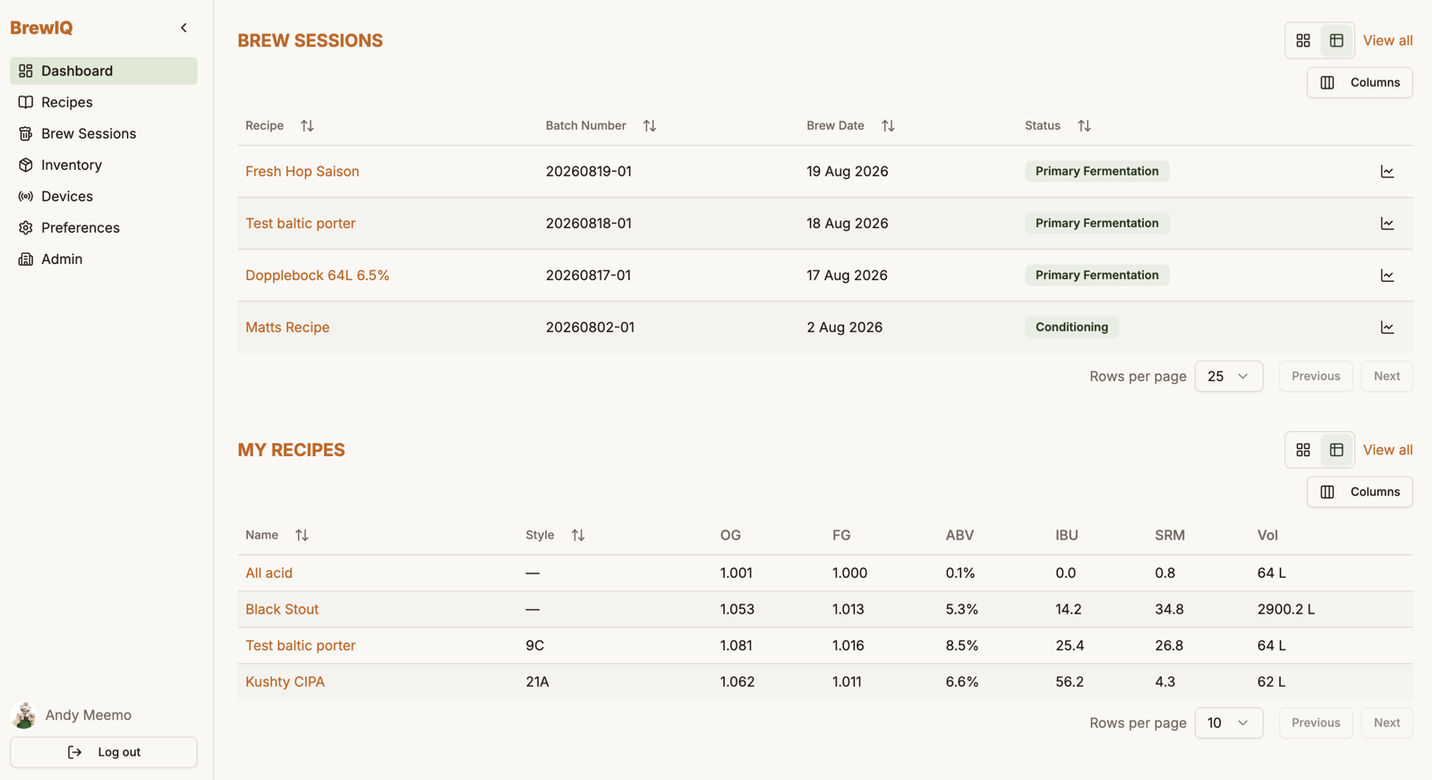
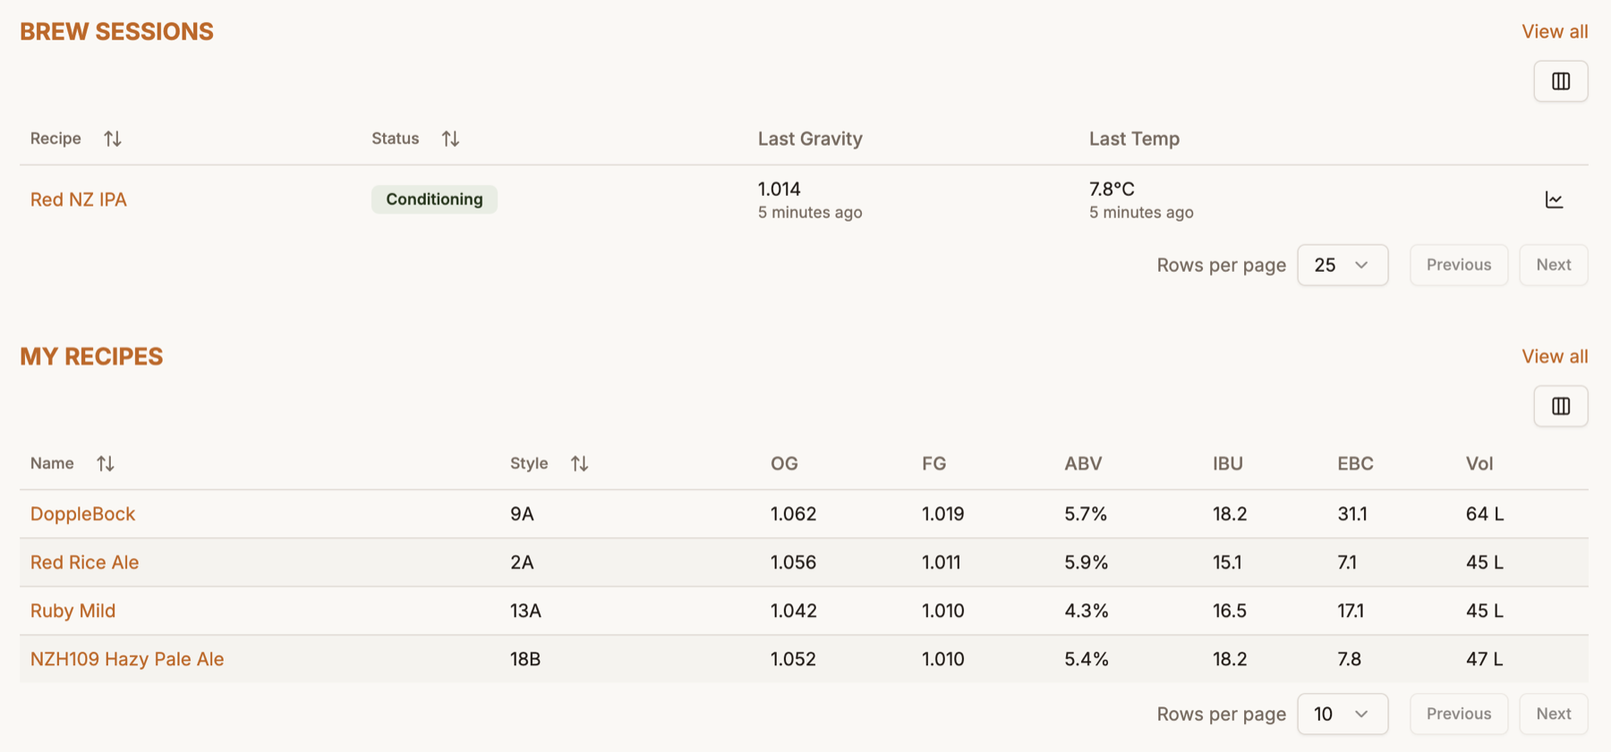
Document recipe tools, fermentation steps, scaling, profiles, alerts and more
Recipes: builder header, Clone/Scale, price override/refresh/match,
sorting, Extracted AA%/IBU, fermentation steps and ramps, profile
screenshots, share-with-fermentation option.
Dashboard: Last Gravity/Last Temp columns, step-reached icons.
Admin: combined Roles table. Preferences: gravity and temperature alerts
and accepted variance. Brew Sessions: target temp rules, step icons.
Devices: how long readings are kept.

diff --git a/docs-src/recipes.md b/docs-src/recipes.md
@@ -27,38 +27,87 @@ Filters (folder, year, label, tag) show as removable chips above the list; use *
 
 **Import BeerXML** (top of the list page) accepts up to 5 `.xml` files at once, shows you a preview of what it found per file, and lets you deselect anything you don't want before committing. Rows with errors are shown dimmed and excluded automatically.
 
+Ingredients that don't match anything in your Inventory come in unlinked. You can match each one from the recipe builder - see [Prices, refreshing and matching ingredients](#prices-refreshing-and-matching-ingredients).
+
 Each recipe row also has an **Export** (download) icon that downloads it as a standalone BeerXML file - handy for backups or moving a recipe to another tool.
 
 ## Building a recipe
 
 Click **New Recipe**, or click a recipe name to reopen the builder on an existing one.
 
+### The builder header
+
+![The recipe builder header with its action buttons, the stat strip and the recipe details](images/recipe-details-stat-strip.png)
+
+The top row holds the recipe's name and its actions. Above it, **View Linked Brew Sessions** takes you to the sessions brewed from this recipe.
+
+- **Clone** - makes an independent copy to work on. BrewIQ asks you to name it first.
+- **Scale** - resizes the whole recipe to a new batch volume or ABV (see [Scaling a recipe](#scaling-a-recipe)).
+- **Autosave** - the on/off switch described under [Saving](#saving).
+- **Export BeerXML** - downloads the recipe as a BeerXML file.
+- **Print**, **Share** and **Brew it!** - open the print preview, the share dialog, and the new brew session screen. They show as icons only if you've turned off **Show button labels** in [Account & Preferences](account-preferences.md).
+- **Save Recipe** - saves your changes now.
+
 ### Recipe Details
 
-At the top: **BJCP Style** (searchable dropdown of the full BJCP 2021 style list), **Method** (All Grain / Extract / BIAB / Partial Mash), **Boil Time**, **Efficiency %** (your brewhouse efficiency - feeds the OG calculation directly), and **Batch Size** / **Pre-Boil Volume** / **Post-Boil Volume**.
+At the top: **BJCP Style** (searchable dropdown of the full BJCP 2021 style list), **Method** (All Grain / Extract / BIAB / Partial Mash), **Boil Time**, **Efficiency %** (your brewhouse efficiency - feeds the OG calculation directly), and **Batch Size** / **Pre-Boil Volume** / **Post-Boil Volume**. A saved recipe also shows when it was **Created** and by whom.
 
 Turn on **Auto-calc Pre/Post-Boil** and BrewIQ will keep those two volumes in sync automatically as you change batch size, boil time, or the hop schedule - turn it off if you'd rather set them manually.
 
 ### The stat strip
 
-![The recipe builder header showing the stat strip with a BJCP style's target ranges](images/recipe-details-stat-strip.png)
-
-Right under the details, a live strip shows **OG, FG, ABV, IBU, SRM, Mash pH, and Cost**, recalculating as you edit. Once you've picked a BJCP style, each cell also shows that style's target range underneath and highlights green when you're inside it - a quick way to see if your recipe is on-style.
+Right under the header buttons, a live strip shows **OG, FG, ABV, IBU, colour, Mash pH, and Cost**, recalculating as you edit. Gravity and colour follow the units you chose in [Account & Preferences](account-preferences.md) (for example EBC or SRM). Once you've picked a BJCP style, each cell also shows that style's target range underneath and highlights green when you're inside it - a quick way to see if your recipe is on-style.
 
 Treat **Mash pH** and **Cost** as directional estimates rather than lab-precision numbers - mash pH is a rule-of-thumb calculation, not a substitute for an actual meter reading.
 
-### Grain Bill, Hop Schedule, Adjuncts, Yeast & Fermentation, Mash & Water, Notes
+### Grain Bill, Hop Schedule, Adjuncts, Yeast, Mash & Water, Fermentation, Notes
 
 These are tabs (or view them all stacked at once under the **All** tab):
 
 - **Grain Bill** - click **Add grain** to pull from your [Inventory](inventory.md) (there are separate Grains and Fermentables catalogs, both searchable/tag-filterable from the same dialog). Set the amount per grain; percentage of the grist, colour, and PPG are calculated or pulled in automatically. A running **Total grain bill** shows at the bottom.
-- **Hop Schedule** - click **Add hop**, then set **Usage** (Boil / First Wort / Whirlpool / Mash / Dry Hop), **Form** (Pellet / Leaf / Fresh), **Time**, and **Amount** per addition. Picking Boil or First Wort auto-fills the time to your boil length. The **Alpha %** is editable, so you can correct it to match the actual hops you bought (correcting it also updates the recipe's open snapshotted [brew sessions](brew-sessions.md#recipe-view-tab)). A summary at the bottom breaks total hops down by stage (Mash / Boil / Whirlpool / Fermenter) with a density figure so you can sanity-check dry-hop rates.
+
+    ![The Grain Bill tab with price, refresh, match and remove icons on each row](images/recipe-builder-grain-bill.png)
+
+- **Hop Schedule** - click **Add hop**, then set **Usage** (Boil / First Wort / Whirlpool / Mash / Dry Hop), **Form** (Pellet / Leaf / Fresh), **Time**, and **Amount** per addition. Picking Boil or First Wort auto-fills the time to your boil length. The **Alpha %** is editable, so you can correct it to match the actual hops you bought (correcting it also updates the recipe's open snapshotted [brew sessions](brew-sessions.md#recipe-view-tab)). Two read-only columns show the maths for each addition: **Extracted AA%** is how much of that hop's alpha acid ends up in the wort (it depends on time, temperature and gravity, so it doesn't change when you change the amount), and **IBU** is that addition's contribution to the recipe's bitterness (which does scale with amount). Dry hops show 0. A summary at the bottom breaks total hops down by stage (Mash / Boil / Whirlpool / Fermenter) with a density figure so you can sanity-check dry-hop rates.
+
+    ![The Hop Schedule tab with Extracted AA% and IBU columns and the sort, refresh and price icons](images/recipe-builder-hops.png)
+
 - **Adjuncts** - same add/search flow as grains and hops, with a Usage field (Mash, Sparge, Water correction, Boil, Whirlpool, Fermenter, Other).
-- **Yeast & Fermentation** - pick a **Strain** from inventory and BrewIQ fills in supplier, flocculation, temperature range, expected attenuation, and fermentation temp from the strain's data (all still editable). Set **Quantity** and whether a **Starter** was used. Expected attenuation is what drives your FG estimate. Below that, the **fermentation steps** table is where you set the batch's schedule - see [Fermentation profile templates](#fermentation-profile-templates).
+- **Yeast** - pick a **Strain** from inventory and BrewIQ fills in supplier, flocculation, temperature range, expected attenuation, and fermentation temp from the strain's data (all still editable). Set **Quantity** and whether a **Starter** was used. Expected attenuation is what drives your FG estimate.
 - **Mash & Water** - set your **Mash Thickness** and BrewIQ suggests a **Recommended Mash In** volume (and a **Recommended Sparge** volume, accounting for grain absorption); click **Add to schedule** on either to drop a pre-filled step into the **Mash Steps** table below, which you can then edit freely or build entirely by hand with **Add step**.
+- **Fermentation** - plan the batch's temperature schedule, step by step. See [Fermentation steps](#fermentation-steps).
 - **Notes** - a plain text field for anything else (process notes, tasting notes, etc.).
 
 Any ingredient you add here comes straight from your ingredient catalog - if something's missing, add it in [Inventory](inventory.md) first.
+
+### Prices, refreshing and matching ingredients
+
+Each grain, hop and adjunct row has a few small tools on the right:
+
+- **$ (cost override)** - set a price for this recipe only. The $ turns orange once a row is overridden. If the same ingredient appears on several rows, tick **Apply to all** to price them together. **Clear** removes the override.
+- **Refresh from inventory** (circular arrow) - re-pulls the ingredient's details from [Inventory](inventory.md): colour and PPG for grains, alpha acid for hops, type, supplier, and price. A price you've overridden is left alone. The refresh arrow in the section's top-right corner (**Refresh all from inventory**) does every row at once. Prices in a recipe stay as they were until you refresh, so a change in Inventory never alters a recipe's cost by surprise.
+- **Match to inventory** - an ingredient that came from a BeerXML import and doesn't match anything in your Inventory shows a **+** icon. Click it to open a dialog with two tabs: **Match existing** (search your catalogue and pick the right item) or **Add as new** (create an Inventory item, pre-filled from the row). Matching takes the catalogue's name, type, colour or alpha acid, supplier and price, but keeps the amount, usage and timing from your import. For an adjunct, the price is only taken if it is priced in the same unit as the row. A matched row shows a **link** icon, which lets you **Re-match** it to a different item.
+- **Remove** (trash) - deletes the row.
+
+The **sort** icon at the top of the Grain Bill and Hop Schedule re-orders the rows: the grain bill largest first (**Sort by % of grain bill**), and hops in the order they go into the process (**Sort by schedule**): Mash, First Wort, Boil (longest time first), Whirlpool, then Dry Hop. Both lists are also sorted automatically every time you save, so a saved recipe is always in brewing order.
+
+### Fermentation steps
+
+![The Fermentation tab showing three steps with type, duration, temperature, ramp and temp controller mode](images/recipe-builder-fermentation-steps.png)
+
+The **Fermentation** tab is where you plan the batch's temperature schedule before you brew. Click **Add step** and fill in each row:
+
+- **Step** - a name, such as Ferment, D-Rest or Cold crash.
+- **Type** - **Fermentation** or **Conditioning**. A Conditioning step plans the time the beer spends conditioning.
+- **Duration** - days and hours.
+- **Start Temp** (°C).
+- **Ramp** and **Finish Temp** - switch **Ramp** on and enter a finish temperature to move gradually from the start temperature to the finish temperature over the step. BrewIQ moves the temperature in **0.5°C increments**, holding each for an equal share of the step, instead of a continuous slide. A 20°C to 3°C ramp over 24 hours becomes 34 small steps of about 42 minutes each, which suits a compressor-based controller far better than constant tiny changes.
+- **Temp Controller** - the mode to use for that step: Heating & Cooling, Heating Only or Cooling Only.
+- **Note**.
+
+When you start a [brew session](brew-sessions.md#fermentation-tab), these steps are copied onto it, whether or not you take a recipe snapshot. Anything that reacts to live readings, such as auto-advance conditions and Managed Mode, is set up on the brew session itself, not on the recipe.
+
+The gauges and alerts on a brew session aim for the temperature of the active step. With no schedule, they use the **fermentation temperature** on the Yeast tab, and failing that the midpoint of the yeast's temperature range.
 
 ### Fermentation profile templates
 
@@ -68,13 +117,34 @@ Most of your beers probably share the same fermentation shape - ferment, diacety
 - Click **Save as template** to turn the steps you've built into a reusable profile.
 - Manage them all from the **Fermentation Profiles** tab on the Recipes page, where you can add, edit, clone and delete profiles. Every brewery starts with an editable **Standard** profile (7 days at 18°C, a 2-day rest at 21°C, a 2-day cold crash at 2°C, then 14 days conditioning at 2°C).
 
+![The Fermentation Profiles tab listing profiles with a one-line summary, step count and total length](images/fermentation-profiles-list.png)
+
+Each profile shows a one-line summary of its steps, how many steps it has and its total length. Use the **pencil** to edit it, the **copy** icon to clone it (handy for making a lager or low-temperature variant) and the **trash** to delete it. **Add Profile** creates a new one.
+
+![The Edit Fermentation Profile dialog with a name and a table of steps](images/fermentation-profile-edit.png)
+
+A profile has the same step fields as a recipe's Fermentation tab, without the live-reading automation.
+
 Applying a template copies its steps - it doesn't stay linked, so editing or deleting a template later never changes recipes or sessions that already used it. A step can be marked as a **Conditioning** step; its duration is used for [Planning](planning.md) (how long a vessel is occupied), but it never drives a temperature controller before the session actually reaches Conditioning.
 
 ### Saving
 
 **Save Recipe** commits your changes immediately. **Autosave** (on by default, toggle in the header) saves every 60 seconds while you have unsaved changes - there's no on-screen warning if an autosave fails, so if you're making a big change, it's worth hitting Save manually before navigating away.
 
-There's no version history - Save simply overwrites the recipe. If you want to branch off a variant without touching the original, use **Duplicate** in the header to create an independent copy first.
+There's no version history - Save simply overwrites the recipe. If you want to branch off a variant without touching the original, use **Clone** in the header to create an independent copy first.
+
+### Scaling a recipe
+
+Click **Scale** in the header to resize the recipe.
+
+![The Scale Recipe dialog with Target Volume and Target ABV fields](images/recipe-scale.png){ width="460" }
+
+Enter a **Target Volume**, a **Target ABV**, or both, and click **Preview**. BrewIQ shows a **Scaled result** with the new batch size, OG, FG, ABV, IBU and colour so you can check it before you commit. Click **Apply to Recipe** to scale the amounts:
+
+- Changing the **volume** multiplies every grain, hop and adjunct amount, the mash water and the batch, pre-boil and post-boil volumes by the same factor.
+- Changing the **ABV** adjusts the grain bill to reach that strength and scales the hops and adjuncts with it, so the balance of bitterness to gravity is kept.
+
+Applying a scale only changes the recipe you have open. Nothing is stored until it is saved, either with **Save Recipe** or by autosave, so use **Clone** first if you want to keep the original.
 
 ### Brewing from a recipe
 
@@ -98,6 +168,8 @@ You get:
 - A QR code - click it to copy the image to your clipboard (it downloads as a PNG instead if your browser/connection doesn't support clipboard images)
 
 ![The Share Recipe dialog after creation, showing the public link and QR code](images/recipe-share-link.png){ width="420" }
+
+If the recipe has a brew session in progress (from Brewing through to Conditioning), the dialog also offers **Share fermentation data (active brew session)**. It's off by default. When it's on, the public page shows an **Active fermentation session** chart above the recipe. It follows whichever session is active when someone opens the link, and it never shows the batch number, notes, vessel or any automation settings.
 
 A recipe only has **one active share link at a time** - creating a new one replaces the old, and **Stop Sharing** revokes it immediately. Anyone with the link can view a read-only version of the recipe with no login required - cost and pricing information is left out of the public view.
 

diff --git a/docs-src/dashboard.md b/docs-src/dashboard.md
@@ -8,18 +8,21 @@ It's built from two sections. Which ones you see depends on your permissions (a 
 
 ## Brew Sessions
 
-Shows your **active** brew sessions only - anything with status *Planning* or *Packaged* is left off the dashboard (those live on the full [Brew Sessions](brew-sessions.md) page). Each entry shows:
+Shows your **active** brew sessions only - anything with status *Planning* or *Packaged* is left off the dashboard (those live on the full [Brew Sessions](brew-sessions.md) page). So you can see how each ferment is going without opening it, each entry shows:
 
-- Recipe name (links to the session detail page)
-- Batch number
-- Brew date
-- Status badge
+- **Recipe** - links to the session detail page
+- **Status** - the current stage as a badge
+- **Last Gravity** and **Last Temp** - the most recent readings, each with how long ago it arrived (for example "5 minutes ago"). They are tracked separately because a temperature controller and a gravity device report on their own schedules.
+
+**Batch Number** and **Brew Date** are also available. The **Columns** button above the table shows or hides any column, and BrewIQ remembers your choice.
 
 If a session has fermentation readings logged, a small line-chart icon appears - click it to pop open a fermentation graph dialog without leaving the dashboard.
 
 ![The fermentation graph dialog on the dashboard, with gravity, ABV, temperature and attenuation gauges above the chart](images/dashboard-fermentation-graph.png)
 
-The dialog opens with four gauges - **Specific Gravity**, **ABV (calculated)**, **Fermenter Temp** and **Attenuation** - each showing its target, and the full fermentation chart below. Switch **Show targets** on or off to overlay your session's target values, and the header tells you which fermentation day you're on and how long remains.
+The dialog opens with four gauges - **Specific Gravity**, **ABV (calculated)**, **Fermenter Temp** and **Attenuation** - each showing its target, and the full fermentation chart below. Switch **Show targets** on or off to overlay your session's target values, and the header tells you which fermentation day you're on against the planned schedule (for example "Day 3 of 18") and how long remains.
+
+If the session still has planned steps ahead, a **Show full schedule** switch zooms the chart out to the whole plan. Beside the day count, a small icon shows how the current step was reached: a **clock** means it ran its planned time, a **robot** means it advanced automatically on a gravity condition, and a **hand** means someone skipped or rewound to it. Hover over the icon for the time. It disappears once the session reaches Conditioning.
 
 Use the toggle in the top-right to switch between **table** and **card** view. "View all" takes you to the full, filterable Brew Sessions list.
 
@@ -29,11 +32,14 @@ If you have no brew sessions yet, the dashboard tells you to start one from a re
 
 Shows your 4 most recent recipes, as either a table or cards (same view toggle). Each one shows its key stats at a glance:
 
-- **OG** / **FG** - original and final gravity
+- **Style** - the BJCP style code
+- **OG** / **FG** - original and final gravity, in your chosen gravity unit
 - **ABV**
 - **IBU**
-- **SRM**
-- **VOL** - batch size, in your preferred units (metric/imperial, set in [Account & Preferences](account-preferences.md))
+- **Colour** - in your chosen colour unit (the screenshot above uses EBC)
+- **Vol** - batch size, in your preferred units (metric/imperial)
+
+Units are set in [Account & Preferences](account-preferences.md). As with brew sessions, the **Columns** button shows or hides columns.
 
 Clicking a recipe name opens a read-only preview dialog (the same print/preview view used elsewhere in the app), with an **Edit** button to jump into the recipe builder. "View all" goes to the full Recipes page.
 

diff --git a/docs-src/brew-sessions.md b/docs-src/brew-sessions.md
@@ -132,7 +132,9 @@ This is where day-to-day tracking happens, combining manual entries with any lin
 
 ![The Fermentation Tracking gauges, status stepper, and Fermentation Steps schedule](images/fermentation-tracking.png)
 
-**Fermentation Tracking** header - shows four gauges: **Specific Gravity** (with target FG), **ABV (calculated)**, **Fermenter Temp** (flags whether you're in, below, or above the ideal range), and **Attenuation**. If you've linked a gravity-tracking device or temp controller, its data feeds these gauges automatically - whichever source (manual or device) is more recent wins.
+**Fermentation Tracking** header - shows four gauges: **Specific Gravity** (with target FG), **ABV (calculated)**, **Fermenter Temp** (flags whether you're in, below, or above the ideal range - see below), and **Attenuation**. If you've linked a gravity-tracking device or temp controller, its data feeds these gauges automatically - whichever source (manual or device) is more recent wins.
+
+The **target** temperature is the active step's temperature. With no schedule it falls back to the recipe's fermentation temperature, then to the midpoint of the yeast's temperature range. The **ideal range** is that target plus or minus the **Accepted variance** in your [notification preferences](account-preferences.md#notifications), and the same value decides when a temperature alert is emailed to you.
 
 **Add Reading** - log Date & Time, Gravity, Temp, pH, and Vessel (Primary/Secondary) by hand at any point.
 
@@ -146,9 +148,11 @@ Everything on this tab locks once the session is Packaged, but stays visible.
 
 ### Fermentation Steps - the schedule
 
-This is a step-by-step temperature schedule you build for the batch: name, duration, start temp, and (optionally) a ramp to a finish temp, with an optional Temp Controller mode (Off / Heating & Cooling / Heating Only / Cooling Only) per step.
+This is a step-by-step temperature schedule you build for the batch: name, duration, start temp, and (optionally) a ramp to a finish temp (moved in 0.5°C increments), with an optional Temp Controller mode (Off / Heating & Cooling / Heating Only / Cooling Only) per step.
 
 Turn on **Managed Mode** and BrewIQ pushes each step's target temperature (and heating/cooling mode) to a paired temp controller automatically as the schedule advances - no manual adjustment needed on the controller itself.
+
+Each step shows a small icon for how it was reached: a **clock** for a step that ran its planned time, a **robot** for one that advanced automatically on a gravity condition, and a **hand** for one you skipped or rewound to. Hover over it for the time.
 
 Each step can also **auto-advance**: set a condition based on average attenuation velocity dropping below a threshold, average gravity dropping below a threshold, or both, evaluated over a configurable time window, and BrewIQ moves to the next step on its own once the condition is met. You can also **Skip** the active step forward manually, or **Rewind** back to the previous one.
 

diff --git a/docs-src/tenant-administration.md b/docs-src/tenant-administration.md
@@ -21,7 +21,11 @@ Per-user actions from the Users table:
 
 ## Roles
 
-Two tables: built-in **role templates** you can duplicate to start from, and your brewery's **custom roles**, which you create, edit, and delete freely. Editing a role opens a permission checklist - this is what controls what each role can see and do throughout BrewIQ (which Inventory tabs show up, whether they can manage devices, view fermentation data, edit recipes, and so on). Stock, Planning and Accounts each have their own read and write permissions, and Accounts permissions are split into Customers and Excise - so you can, for example, build a role for a bookkeeper that sees only Stock and Accounts. Accounts is only available to Commercial accounts.
+![The Roles tab with built-in templates and custom roles in one table](images/admin-roles.png)
+
+One table lists every role. The **templates** (Brewery Assistant, Customer Admin, Customer Reader and Ferment Assistant) are built into every brewery. They can't be edited, but the **copy** icon on a template makes your own editable copy, named "(Copy)" to start with. **Custom** roles carry a **Custom** tag and have **pencil** (edit) and **trash** (delete) icons. **New role** creates a custom role from scratch.
+
+Editing a role opens a permission checklist - this is what controls what each role can see and do throughout BrewIQ (which Inventory tabs show up, whether they can manage devices, view fermentation data, edit recipes, and so on). Stock, Planning and Accounts each have their own read and write permissions, and Accounts permissions are split into Customers and Excise - so you can, for example, build a role for a bookkeeper that sees only Stock and Accounts. Accounts is only available to Commercial accounts.
 
 ## Trusted IPs
 

diff --git a/docs-src/account-preferences.md b/docs-src/account-preferences.md
@@ -59,7 +59,10 @@ Only visible if your role has notification permissions. Turning on a category he
 - **Fermentation Devices** - device online / device offline
 - **Temp Controllers** - device online / device offline
 - **Data Forwarders** - forwarder disabled (the bell then appears in a forwarder's dialog on the [Devices](devices.md#forwarding-readings-to-other-platforms) page)
-- **Fermentation Alerts** - gravity alerts, temperature alerts, fermentation step reached (bells appear on individual [brew sessions](brew-sessions.md))
+- **Fermentation Alerts** - gravity alerts, temperature alerts, fermentation step reached (bells appear on individual [brew sessions](brew-sessions.md)):
+    - **Gravity alerts** email you as fermentation finishes. You get one email when gravity reaches the recipe's final gravity but is still falling quickly ("FG reached, still fermenting"), and another when it has levelled off ("fermentation appears complete"). They only apply during Primary Fermentation, and they judge the trend over the last few hours of readings, so one odd reading won't trigger them.
+    - **Temperature alerts** email you when the fermenter goes below or above its ideal range. The **Accepted variance (±°C)** setting controls how wide that range is around the target temperature. It starts at ±1°C, accepts 0.1 to 10, and also sets the "ideal range" shown on the session's gauges, so what you see on screen matches when you're emailed. Because it's a personal setting, two people subscribed to the same session can have different ranges.
+    - **Fermentation step reached** emails you when the schedule moves on to its next step.
 
 ## Managing a brewery's team
 

diff --git a/docs-src/devices.md b/docs-src/devices.md
@@ -78,6 +78,14 @@ Icon buttons per card let you: toggle email alerts (bell), view the raw reading 
 
 Use the **Linked Brew Session** dropdown on the device card to attach it to an active session (anything not yet packaged). Once linked, every gravity reading that comes in is logged against that session and can automatically kick off fermentation tracking on it - see [Brew Sessions](brew-sessions.md).
 
+### How long readings are kept
+
+BrewIQ keeps detailed device readings for a limited time, so link a device to its brew session before fermentation begins.
+
+- The **raw reading history** on a device card is kept for **30 days** if the device was linked to a brew session when the reading arrived, and for **48 hours** if it wasn't. Temperature controllers follow the same rule.
+- A linked device's readings are also saved on the session's own fermentation readings, which feed its chart and gauges. Those are kept long term, but older ones are thinned out automatically: after 60 days they're averaged into hourly points, after 180 days into 3-hourly points, after a year into 12-hourly points, and after 18 months they're removed. Readings you enter by hand are never thinned or removed.
+- Once a session has been running for more than 30 days, new device readings are recorded about once an hour instead of every few minutes.
+
 ### Forwarding readings to other platforms
 
 Many brewers log a gravity device to a second service such as BrewersFriend or Grainfather as well. Rather than pointing the device at one destination only, BrewIQ can pass each device's readings on for you. Click the **paper plane** icon on a device card to set it up.
